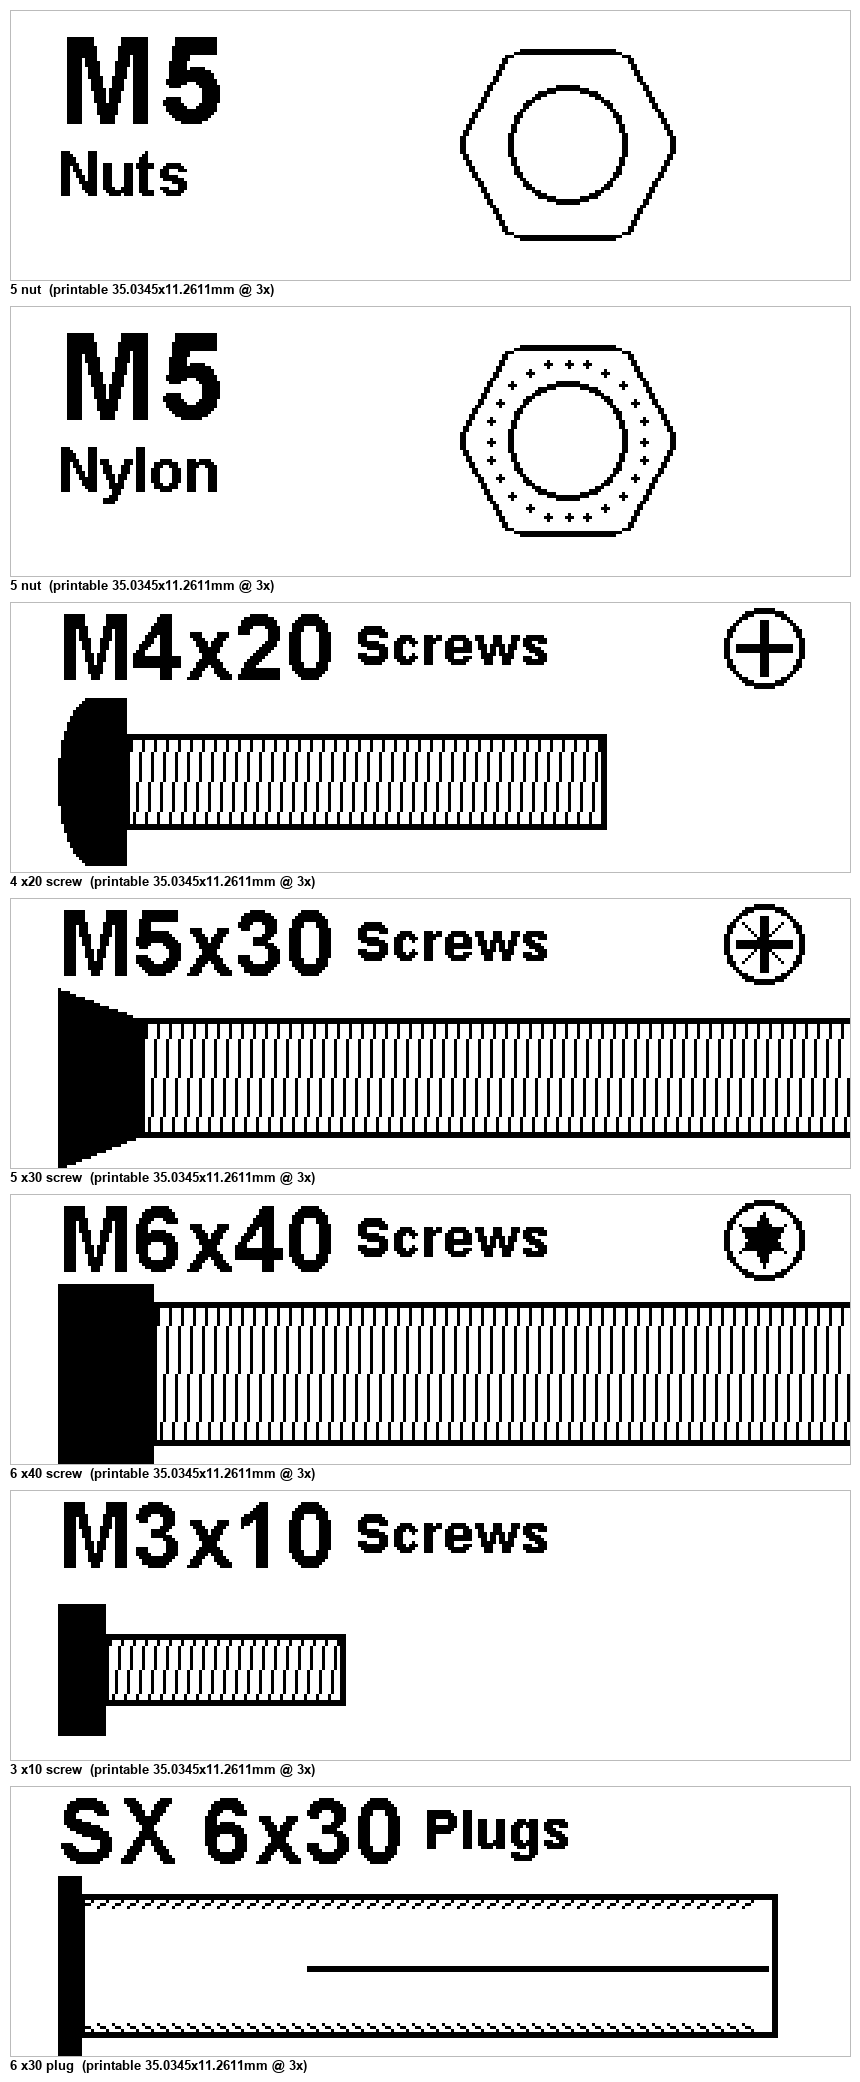
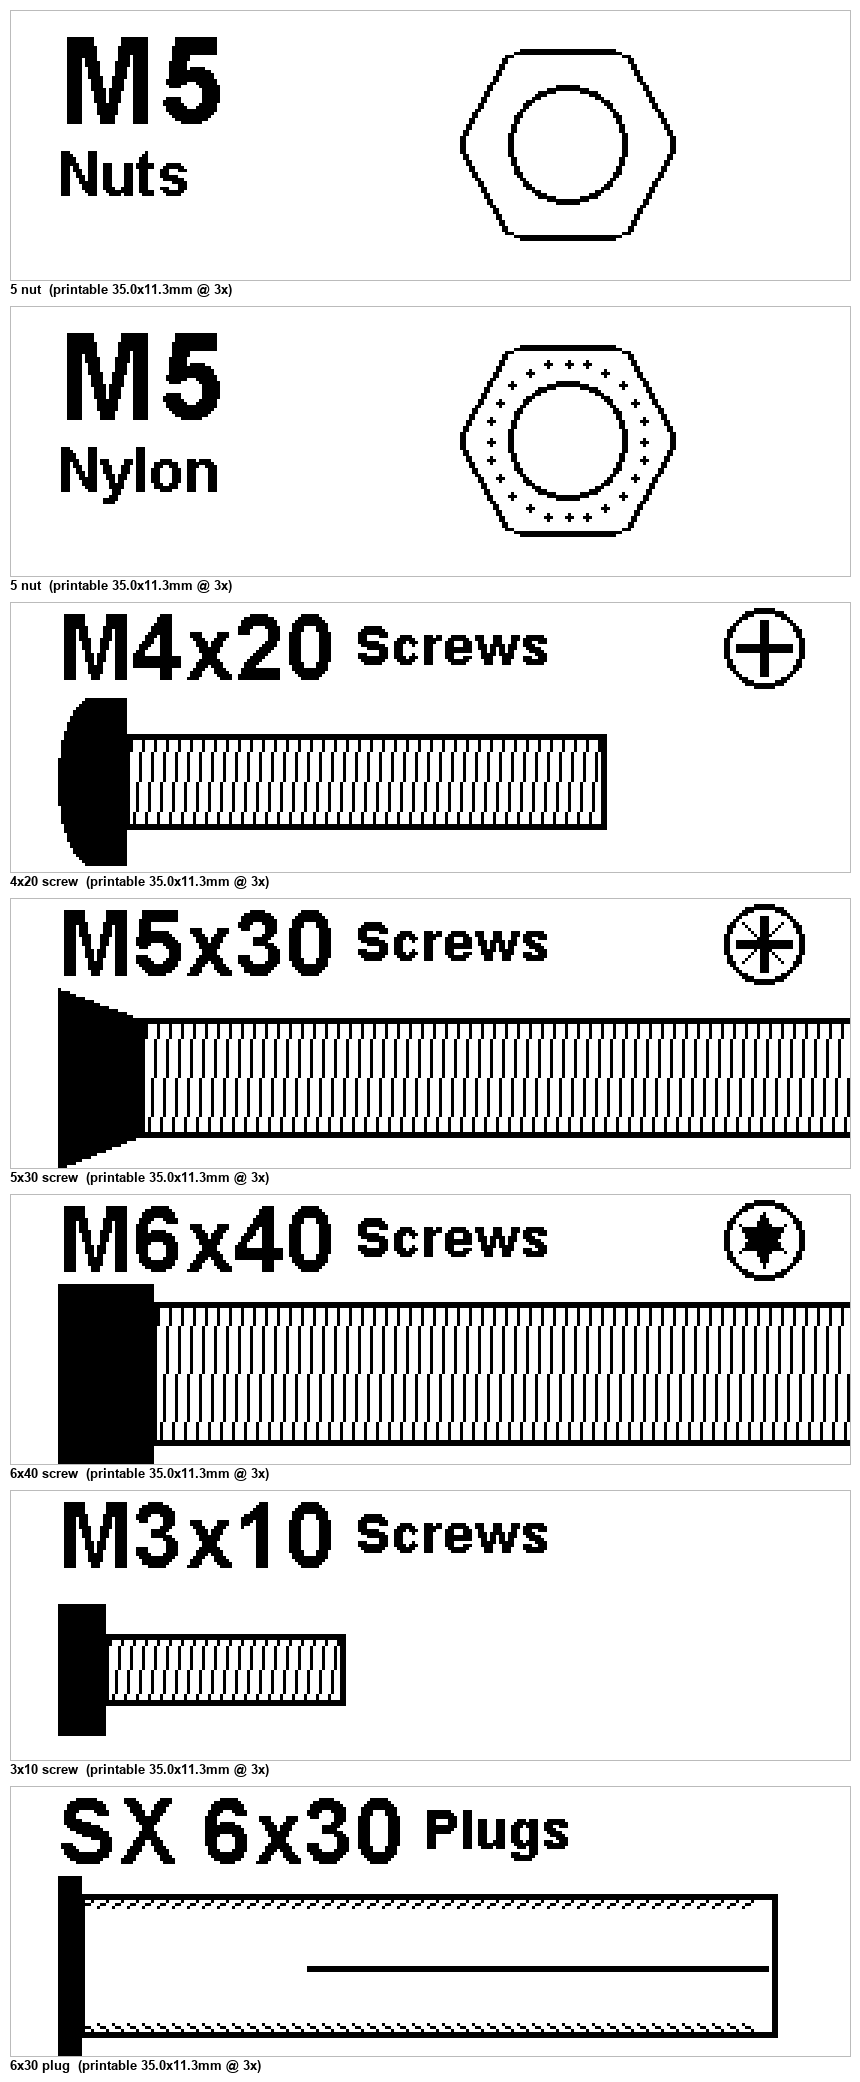
add plain text labels
gen.py "text:Misc"          ->  misc-text.png

Same style as the nut title, centred since nothing sits under it, and the text is
kept verbatim rather than parsed as a size. The font shrinks to fit the label
instead of running off the edge, so "text:Anchors & Plugs" works as well as short
captions.

The catalogue carries one of these per template, "Misc", for the drawer that
defies classification. Left out of the preview sheets - the examples are there to
show the drawings.

diff --git a/gen.py b/gen.py
@@ -246,6 +246,18 @@ def draw_drive(d: ImageDraw.ImageDraw, cx, cy, r, kind):
 
 # ----------------------------------------------------------------- layout ----
 
+def _fit_font(d: ImageDraw.ImageDraw, text: str, max_w: int, size_mm=5.0):
+    """Largest font at or below `size_mm` tall that keeps `text` inside max_w."""
+    size = mm(size_mm)
+    floor = mm(2.0)
+    while size > floor:
+        font = _font(size)
+        if d.textlength(text, font=font) <= max_w:
+            return font
+        size -= 1
+    return _font(floor)
+
+
 def _title_row(d: ImageDraw.ImageDraw, title: str, caption: str):
     """Big size followed by a small caption, pinned to the top-left."""
     f_big, f_sub = _font(mm(3.75)), _font(mm(2.25))
@@ -258,6 +270,14 @@ def make_label(kind: str, m: float, length: float | None = None,
                shape: str = "hex", drive: str | None = None) -> Image.Image:
     img = Image.new("1", (W, H), WHITE)
     d = ImageDraw.Draw(img)
+
+    if kind == "text":
+        # a plain caption: same style as the nut title, centred since nothing
+        # sits under it. Shrinks to fit rather than running off the label.
+        font = _fit_font(d, shape, W - 2 * PAD)
+        top, bottom = d.textbbox((0, 0), shape, font=font)[1::2]
+        d.text((PAD, (H - (top + bottom)) // 2), shape, font=font, fill=BLACK)
+        return img
 
     if kind == "nut":
         # size and variant stacked tight on the left, hex face on the right
@@ -293,9 +313,14 @@ def contact_sheet(specs, scale=3, out="preview.png"):
         big = make_label(*spec).convert("L").resize((cw, ch), Image.NEAREST).convert("RGB")
         sheet.paste(big, (gap, y))
         dd.rectangle([gap, y, gap + cw, y + ch], outline="#bbb")
-        what = "nut" if spec[0] == "nut" else f"x{spec[2]:g} {spec[0]}"
+        if spec[0] == "text":
+            what = f"{spec[3]!r} text"
+        elif spec[0] == "nut":
+            what = f"{spec[1]:g} nut"
+        else:
+            what = f"{spec[1]:g}x{spec[2]:g} {spec[0]}"
         dd.text((gap, y + ch + 2),
-                f"{spec[1]:g} {what}  (printable {LEN_MM:g}x{HEAD_MM:g}mm @ {scale}x)",
+                f"{what}  (printable {LEN_MM:.1f}x{HEAD_MM:.1f}mm @ {scale}x)",
                 font=f, fill="black")
     sheet.save(out)
     return out
@@ -313,7 +338,12 @@ def parse_spec(token: str):
         M5x30              screw
         M5x30:pan:philips  screw with a head profile and drive icon
         SX6x30:plug        wall plug, the letter prefix kept as the range name
+        text:Misc          a plain caption, kept verbatim
     """
+    head, sep, rest = token.partition(":")
+    if head.strip().lower() == "text":
+        return ("text", 0, None, rest.strip() or "Label", None)
+
     size, *tags = token.split(":")
     tags = [t.strip().lower() for t in tags]
     size = size.strip().upper()
@@ -337,6 +367,9 @@ def parse_spec(token: str):
 def spec_name(spec) -> str:
     """Output filename stem: lowercase, dash-separated. m4x20-screw-pan-philips"""
     kind, m, length, shape, drive = spec
+    if kind == "text":
+        slug = "".join(c if c.isalnum() else "-" for c in shape).strip("-")
+        return f"{slug}-text".lower()
     if kind == "nut":
         parts = [f"m{m:g}", "nut", shape]
     elif kind == "plug":
@@ -350,6 +383,8 @@ def spec_name(spec) -> str:
 def describe(spec) -> str:
     """One-line summary of what a spec draws, for the console readout."""
     kind, m, length, shape, drive = spec
+    if kind == "text":
+        return f"text label: {shape!r}"
     if kind == "nut":
         variant = " nyloc" if shape == "nylon" else ""
         return f"M{m:g}{variant} nut: hex WAF {nut_waf(m):g} mm, hole Ø{m:g} mm"

diff --git a/build_catalog.py b/build_catalog.py
@@ -37,6 +37,9 @@ DRIVES = ["philips", "allen", "torx"]        # the drives people actually meet
 PLUGS = [("SX", 5, 25), ("SX", 6, 30), ("SX", 6, 40),
          ("SX", 8, 40), ("SX", 8, 50), ("SX", 10, 50)]
 
+# Plain captions. Generate your own with: gen.py "text:Washers"
+TEXTS = ["Misc"]
+
 
 def specs() -> list[tuple]:
     out = [("nut", m, None, variant, None)
@@ -47,6 +50,7 @@ def specs() -> list[tuple]:
             for shape in HEAD_SHAPES
             for drive in DRIVES]
     out += [("plug", dia, length, prefix, None) for prefix, dia, length in PLUGS]
+    out += [("text", 0, None, caption, None) for caption in TEXTS]
     return out
 
 

diff --git a/README.md b/README.md
@@ -18,7 +18,7 @@ on an Orgstra **S001** (Xinye) label printer via
 ## Just print them
 
 The whole catalogue is **pre-generated and committed** — clone and print, no Python
-needed. One folder per label template, 674 stickers each:
+needed. One folder per label template, 675 stickers each:
 
 | Folder | Label | Dots | Printers |
 |---|---|---|---|
@@ -30,6 +30,7 @@ needed. One folder per label template, 674 stickers each:
 s001-12x40mm/m4x20-screw-pan-philips.png
 label-40x30mm/m5-nut-nylon.png
 label-50x30mm/sx-6x30-plug.png
+s001-12x40mm/misc-text.png
 ```
 
 Each folder has a `preview.png` contact sheet of the same examples shown above.
@@ -80,6 +81,8 @@ uv run gen.py M3 M5 M8 M5x50 M4x20 --out out --sheet
 - `M5` → nut, `M5x50` → screw (Ø5 × 50 mm). Decimals are fine: `M2.5`.
 - `SX6x30:plug` → wall plug (Ø6 × 30 mm). Plugs aren't threaded, so the size
   needs no `M`; any letter prefix is kept as the range name (`SX 6x30`).
+- `"text:Misc"` → a plain caption, for the drawer that defies classification.
+  Written verbatim and shrunk to fit, so `"text:Anchors & Plugs"` works too.
 - PNGs are written to `out/` (`M5_nut.png`, `M5x50_screw.png`, `SX_6x30_plug.png`).
 - `--sheet` also writes `_preview.png` so you can eyeball the batch.
 - `--template label-40x30mm` draws for a different label (default is the S001).
